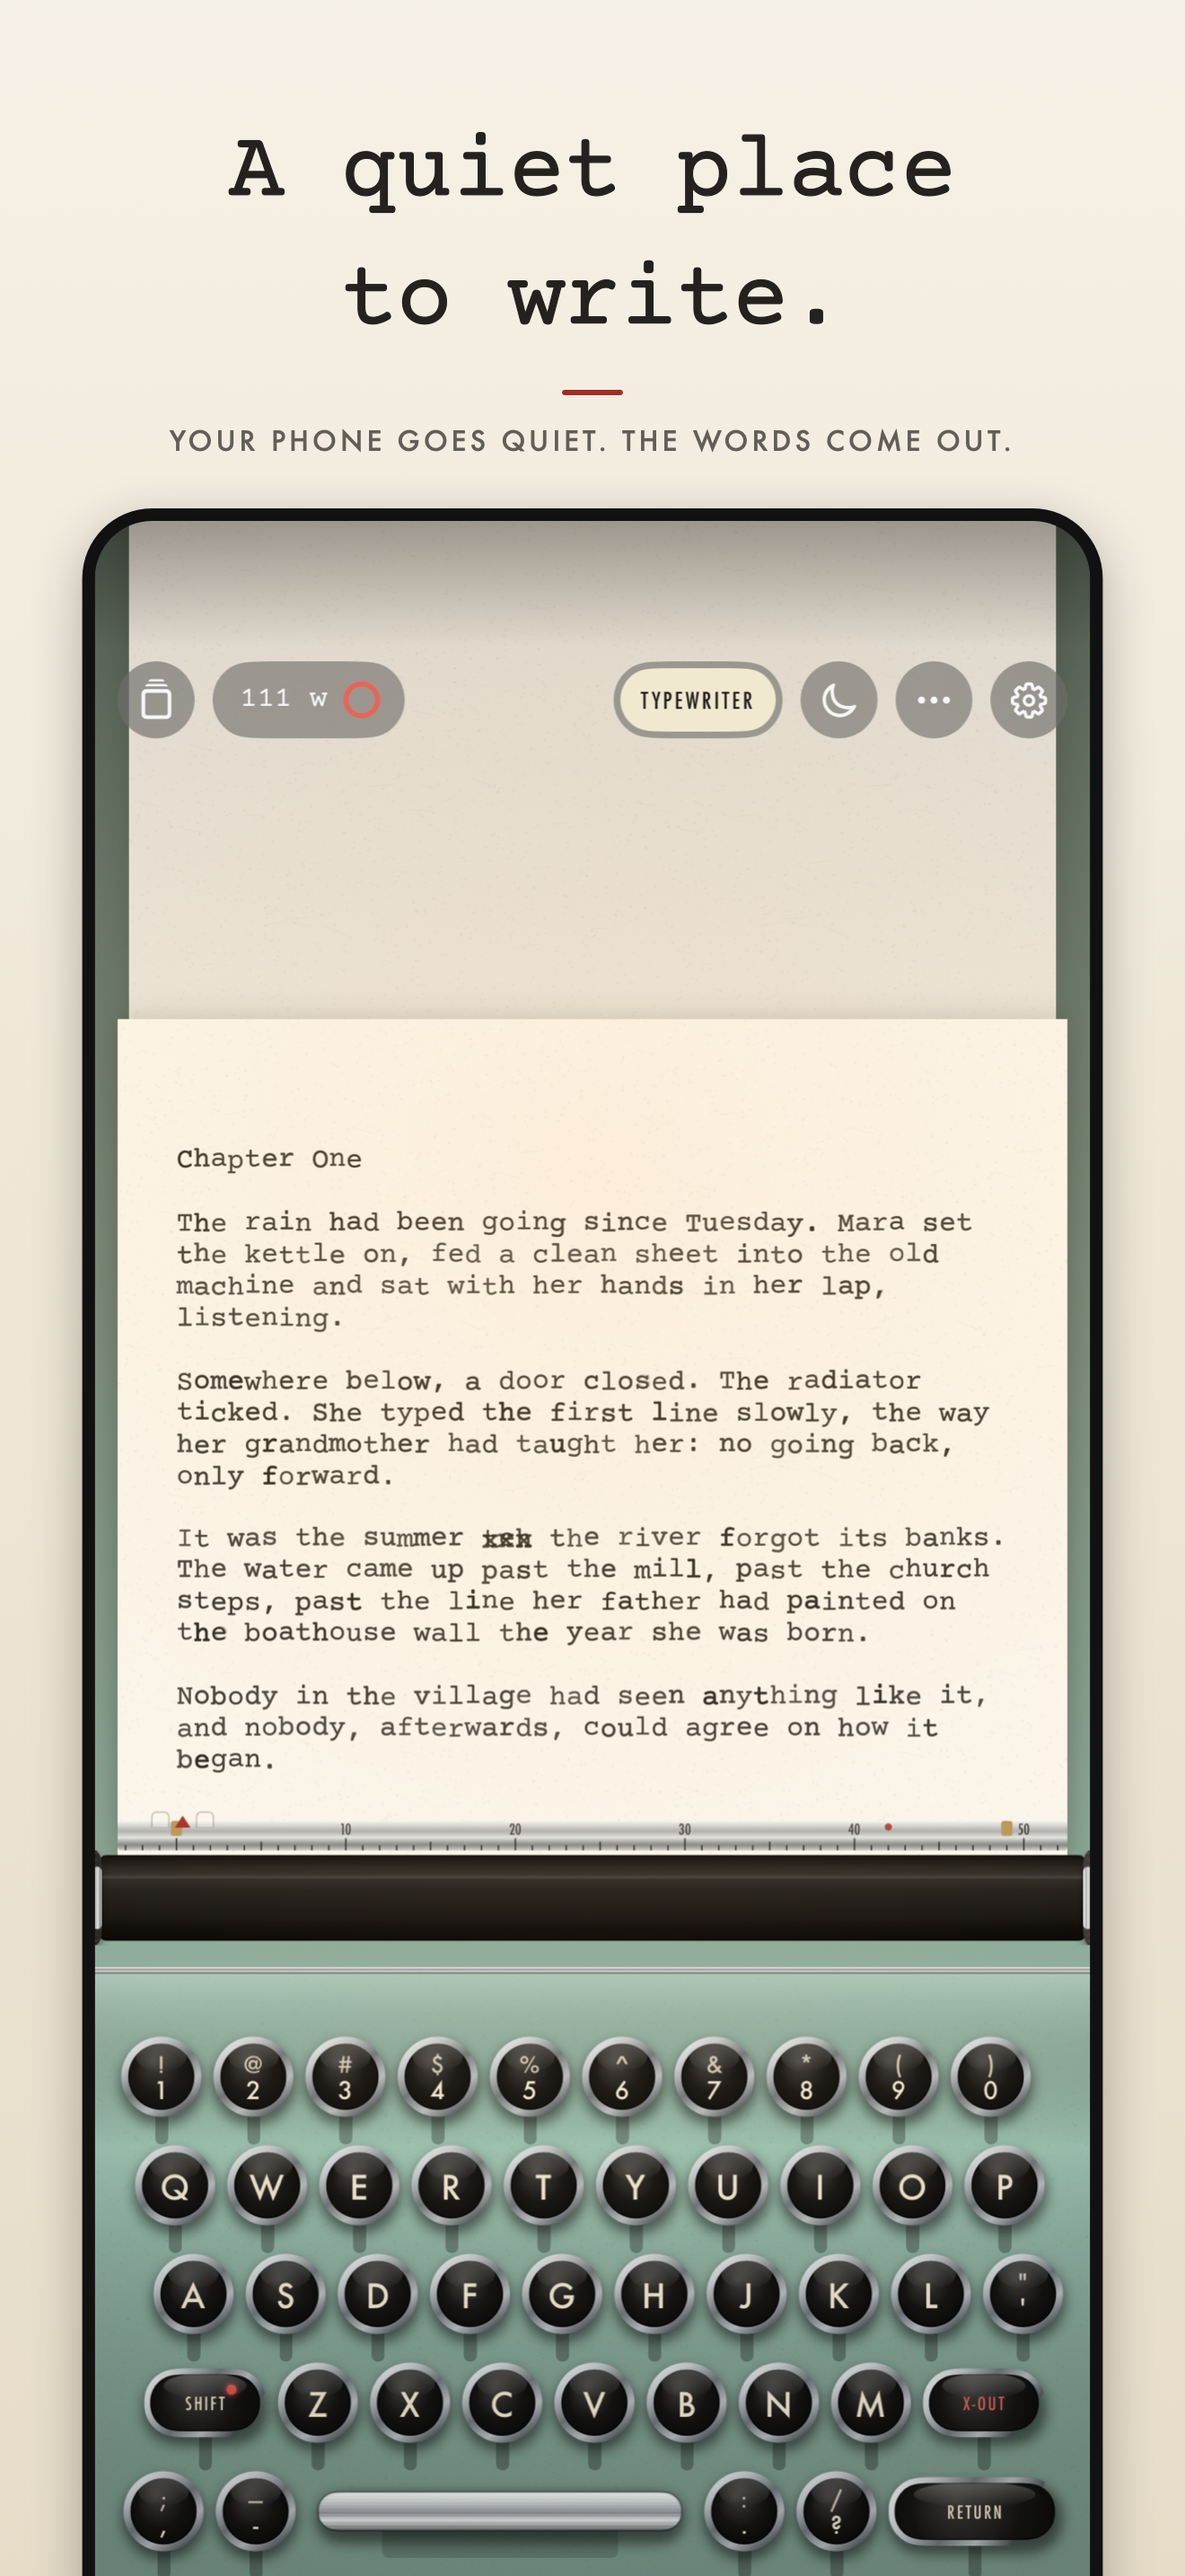
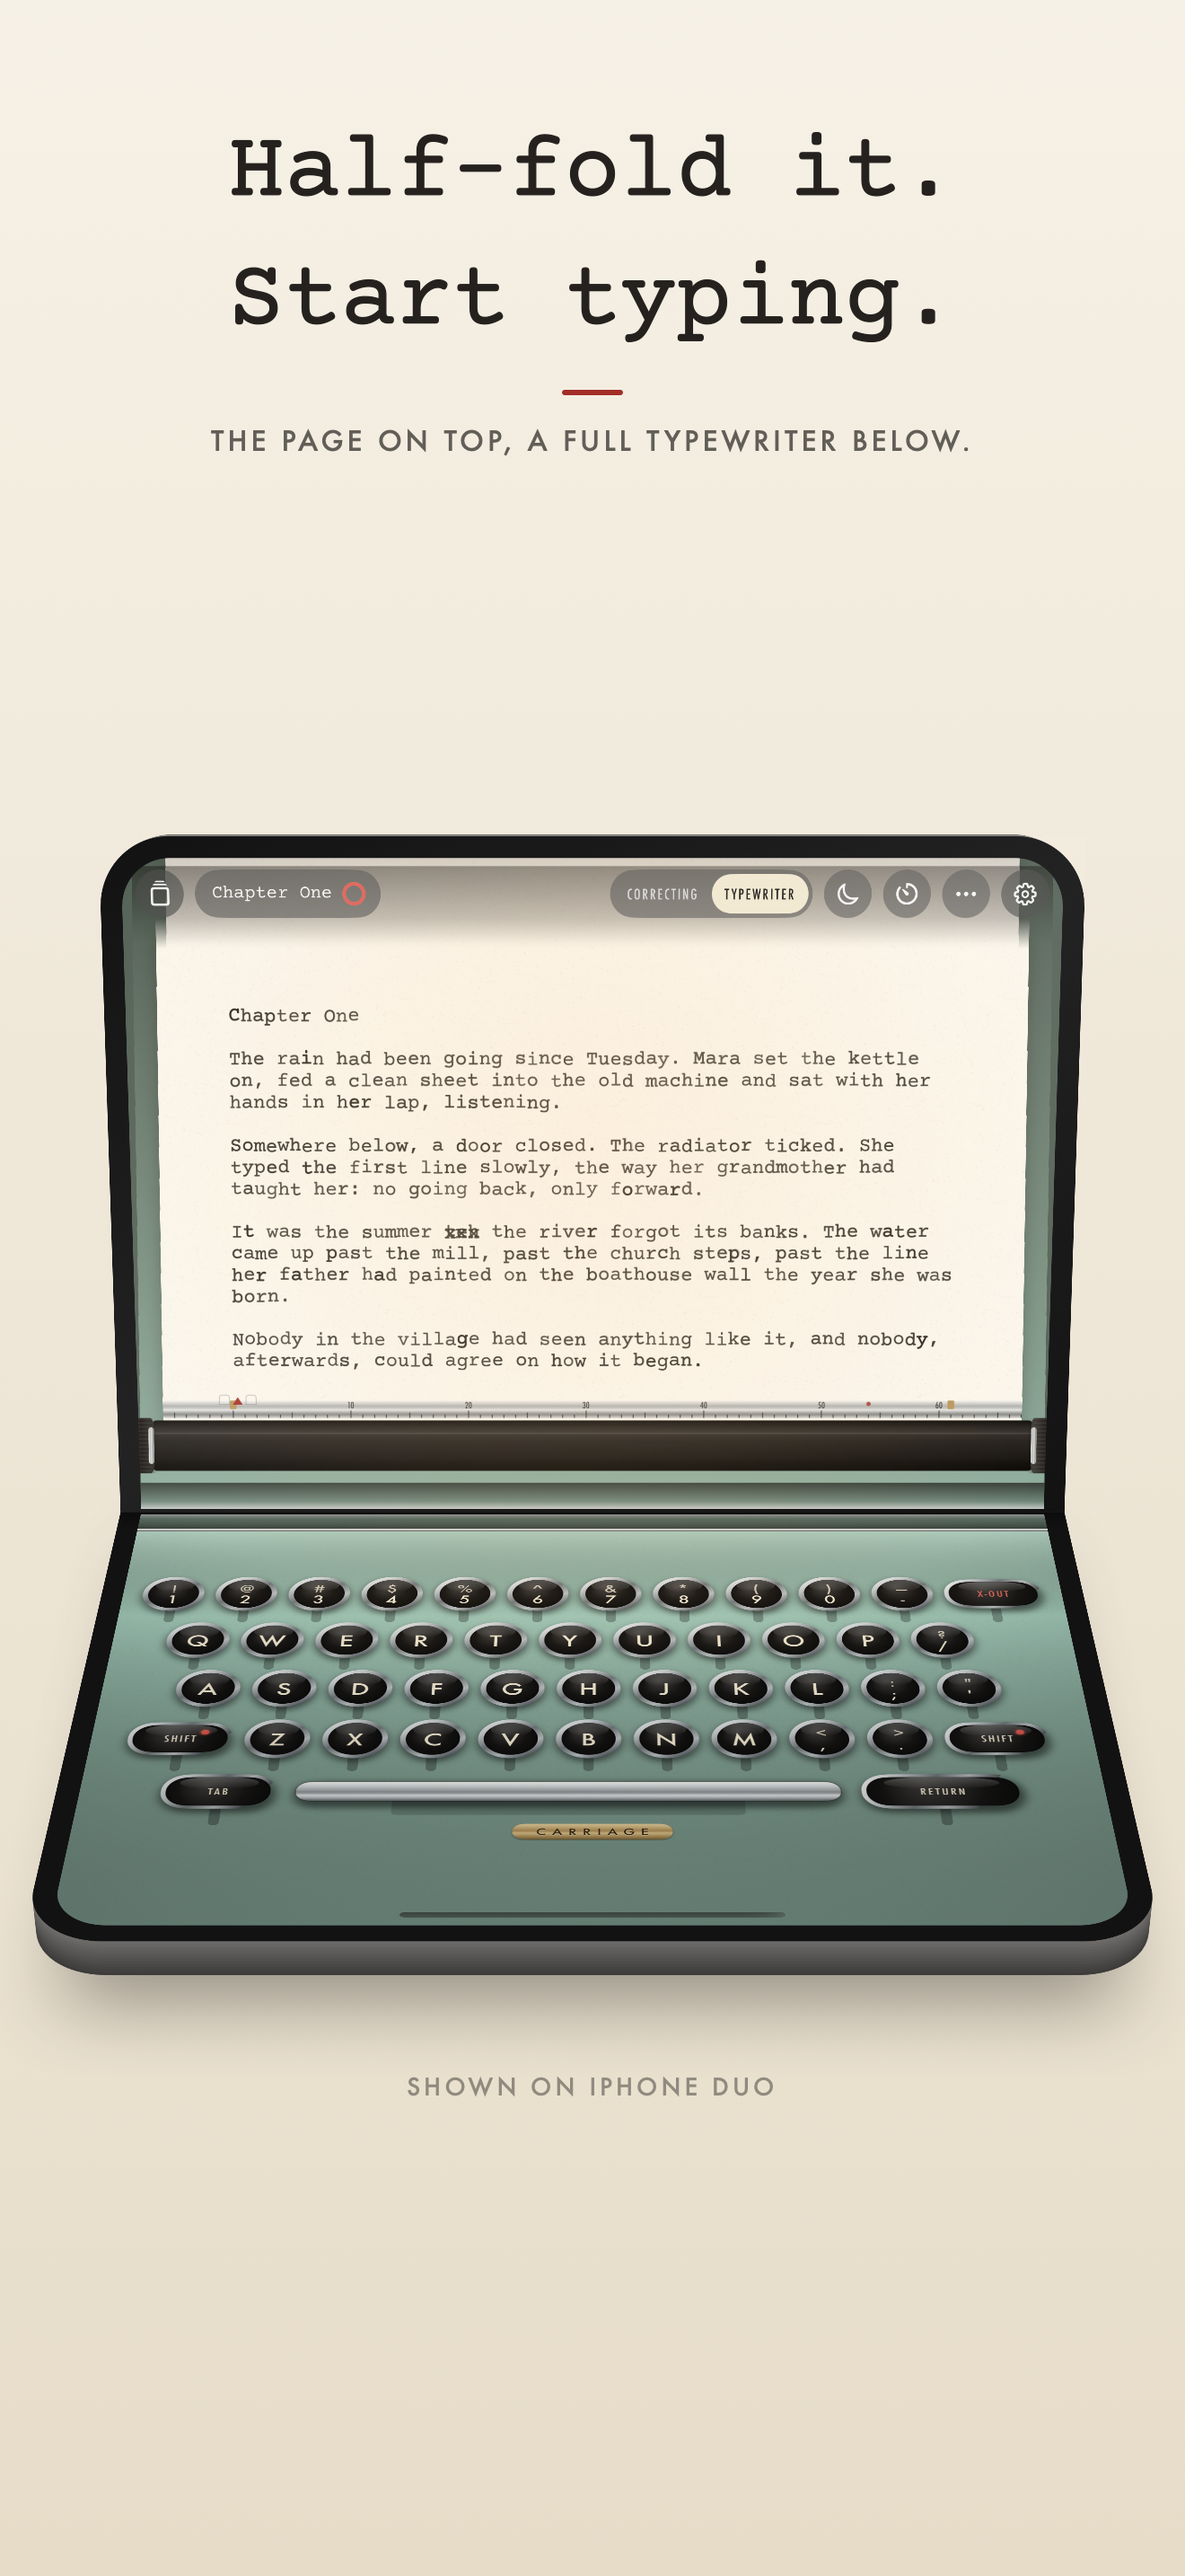
Lead the iPhone screenshots with the Duo half-folded
Every iPhone sees the Duo set's laptop shots first, marked as shown on iPhone
Duo, then the single screen: "On any iPhone, too."

diff --git a/scripts/StoreScreenshots.swift b/scripts/StoreScreenshots.swift
@@ -18,11 +18,13 @@ struct Shot {
     var night = false
 }
 
+// Every iPhone sees the Duo first, half-folded the way Carriage is meant to be used, then the single screen.
 let shots = [
-    Shot(source: "01-typing", title: "A quiet place\nto write.", line: "YOUR PHONE GOES QUIET. THE WORDS COME OUT."),
+    Shot(folder: "iPhone-Duo", source: "01-typing", title: "Half-fold it.\nStart typing.", line: "THE PAGE ON TOP, A FULL TYPEWRITER BELOW."),
+    Shot(folder: "iPhone-Duo", source: "03-cherry", title: "A beautiful\nlittle machine.", line: "CHROME KEYS, SOFT CLACKS, A BELL AT THE MARGIN."),
+    Shot(source: "01-typing", title: "On any iPhone,\ntoo.", line: "THE PAGE AND THE KEYS ON ONE SCREEN."),
     Shot(source: "02-focus", title: "Just you\nand the page.", line: "TAP THE MOON AND EVERYTHING ELSE FADES AWAY."),
-    Shot(source: "05-cherry", title: "A beautiful\nlittle machine.", line: "CHROME KEYS, SOFT CLACKS, A BELL AT THE MARGIN."),
-    Shot(source: "04-night", title: "Write late,\nin peace.", line: "NIGHT DESK: LIGHT INK ON DARK PAPER.", night: true),
+    Shot(folder: "iPhone-Duo", source: "04-night", title: "Write late,\nin peace.", line: "NIGHT DESK: LIGHT INK ON DARK PAPER.", night: true),
     Shot(source: "03-library", title: "Every page,\nkept safe.", line: "NOTEBOOKS, STREAKS, ICLOUD AND FILES."),
 ]
 
@@ -83,7 +85,17 @@ func render(_ shot: Shot, size: CGSize, to url: URL) throws {
     ])
     line.draw(with: CGRect(x: 60 * scale, y: size.height - 520 * scale, width: size.width - 120 * scale, height: 50 * scale), options: [.usesLineFragmentOrigin])
 
-    if duo {
+    if duo && size.width / size.height < 0.6 {
+        // On a single-screen iPhone's canvas, the Duo sits in the middle with a note saying which phone it is.
+        let device = drawLaptop(screen, in: CGRect(x: 24 * scale, y: 420 * scale, width: size.width - 48 * scale, height: size.height - 1100 * scale), night: shot.night)
+        let note = NSAttributedString(string: "SHOWN ON IPHONE DUO", attributes: [
+            .font: NSFont(name: "Futura-Medium", size: 26 * scale)!,
+            .foregroundColor: ink.withAlphaComponent(0.45),
+            .kern: 4 * scale,
+            .paragraphStyle: paragraph,
+        ])
+        note.draw(with: CGRect(x: 60 * scale, y: device.minY - 150 * scale, width: size.width - 120 * scale, height: 44 * scale), options: [.usesLineFragmentOrigin])
+    } else if duo {
         drawLaptop(screen, in: CGRect(x: 40 * scale, y: 70 * scale, width: size.width - 80 * scale, height: size.height - 640 * scale), night: shot.night)
     } else {
         drawPhone(screen, size: size, scale: scale, night: shot.night)
@@ -118,9 +130,10 @@ func drawPhone(_ screen: NSImage, size: CGSize, scale: CGFloat, night: Bool) {
 
 /// The Duo as it's really used: half-folded on the desk like a little laptop, the page standing up on the top half
 /// and the keys lying flat on the bottom half, seen from in front and a little above. Fills `area` as wide as fits,
-/// resting on its bottom edge.
-func drawLaptop(_ screen: NSImage, in area: CGRect, night: Bool) {
-    guard let cg = screen.cgImage(forProposedRect: nil, context: nil, hints: nil) else { return }
+/// centred in it, and returns where it landed.
+@discardableResult
+func drawLaptop(_ screen: NSImage, in area: CGRect, night: Bool) -> CGRect {
+    guard let cg = screen.cgImage(forProposedRect: nil, context: nil, hints: nil) else { return .zero }
     let w = CGFloat(cg.width), fold = CGFloat(cg.height / 2)
     let bezel: CGFloat = 46, hinge: CGFloat = 8
     let halfSize = CGSize(width: w + 2 * bezel, height: fold + bezel + hinge)
@@ -170,7 +183,7 @@ func drawLaptop(_ screen: NSImage, in area: CGRect, night: Bool) {
     let raw = (pageTop + pageBack + keysUnder + keysNear + pageHinge).map(project)
     let minX = raw.map(\.x).min()!, maxX = raw.map(\.x).max()!, minY = raw.map(\.y).min()!, maxY = raw.map(\.y).max()!
     let fit = min(area.width / (maxX - minX), area.height / (maxY - minY))
-    let ox = area.midX - (minX + maxX) / 2 * fit, oy = area.minY - minY * fit
+    let ox = area.midX - (minX + maxX) / 2 * fit, oy = area.midY - (minY + maxY) / 2 * fit
     func place(_ p: SIMD3<Double>) -> CGPoint {
         let q = project(p)
         return CGPoint(x: ox + q.x * fit, y: oy + q.y * fit)
@@ -239,6 +252,7 @@ func drawLaptop(_ screen: NSImage, in area: CGRect, night: Bool) {
     let band = quad([pageHinge[0], pageHinge[1], pageHinge[1] + SIMD3(0, 0, 70), pageHinge[0] + SIMD3(0, 0, 70)]).bounds
     NSGradient(starting: NSColor.black.withAlphaComponent(0.35), ending: NSColor.black.withAlphaComponent(0))!.draw(in: band, angle: -90)
     NSGraphicsContext.restoreGraphicsState()
+    return CGRect(x: ox + minX * fit, y: oy + minY * fit, width: (maxX - minX) * fit, height: (maxY - minY) * fit)
 }
 
 for (folder, size, set) in [("store-6.9", CGSize(width: 1320, height: 2868), shots), ("store-6.3", CGSize(width: 1206, height: 2622), shots), ("store-duo", CGSize(width: 2007, height: 2853), duoShots)] {
